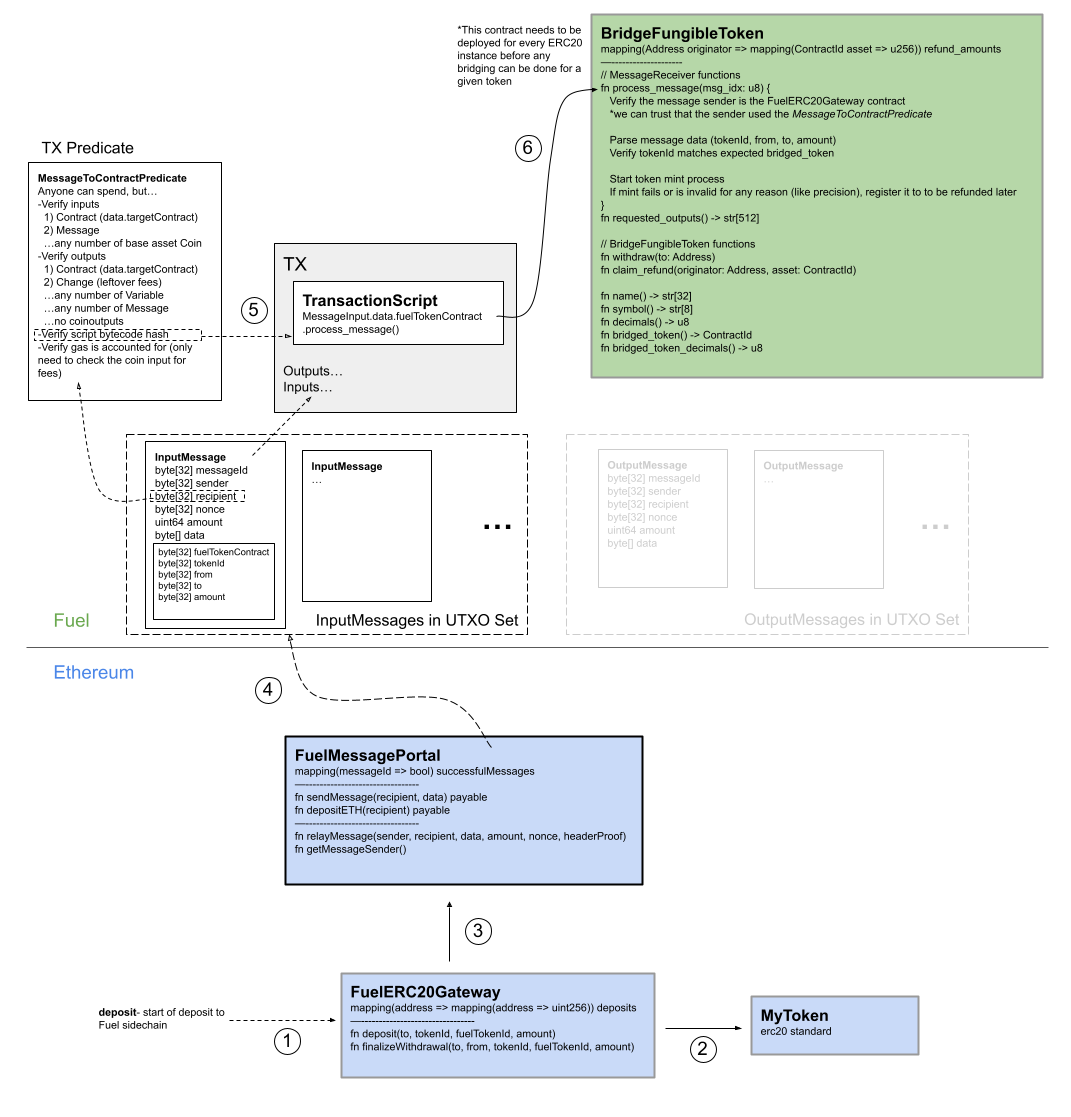
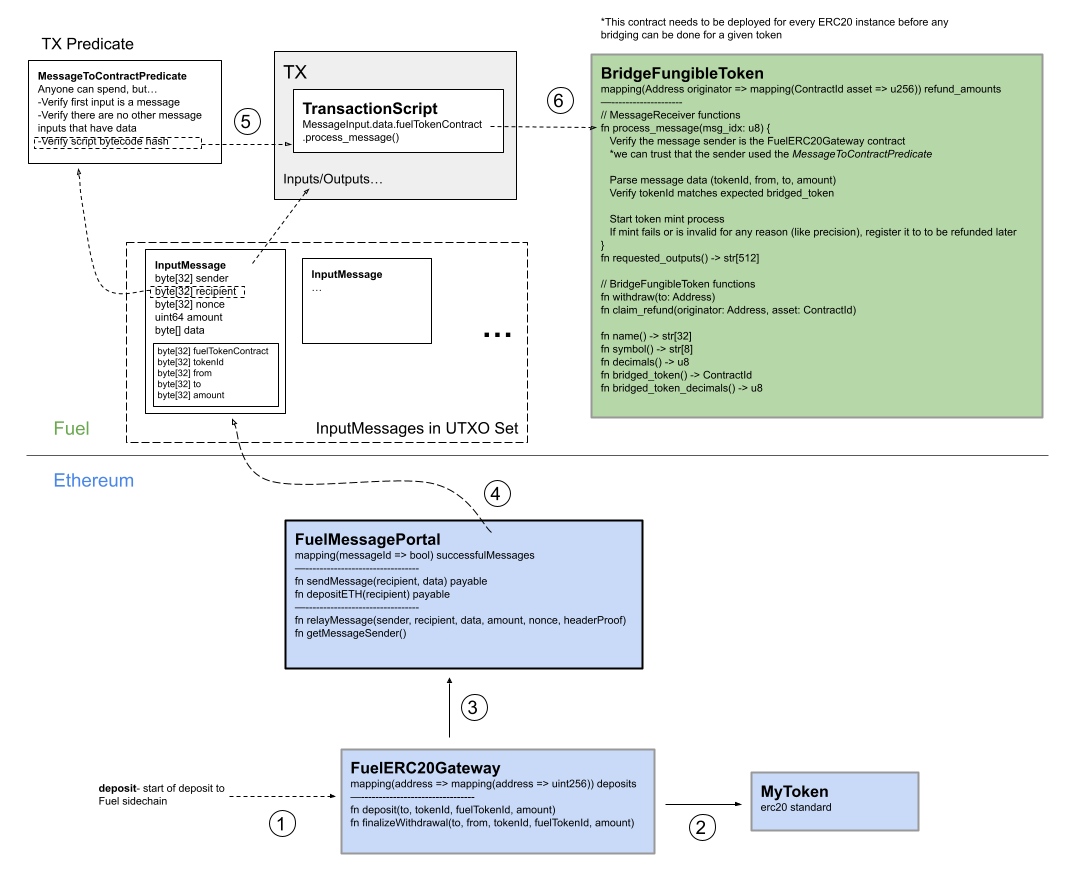
Updated design docs (#63)
* updated design docs

* update ci

diff --git a/docs/design_docs.md b/docs/design_docs.md
@@ -24,9 +24,9 @@ The ETH bridge facilitates the transfer of ETH from Ethereum to be represented a
 
 ### ETH Bridge Withdrawal
 
-1. User starts a withdrawal by creating a transaction that outputs an `OutputMessage` with a specific amount of ETH
-1. The `messageId`s from all `OutputMessages` in a block are put into a merkle tree and included in the block header, which gets committed to the `FuelChainConsensus` contracts via the consensus mechanism
-1. After a finalization period, the user calls `relayMessage` on the `FuelMessagePortal` contract with a block inclusion proof that is cross verified with the `FuelChainConsensus` contract, which then sends the ETH to the message recipient
+1. User starts a withdrawal by creating a transaction that creates a `MessageOut` receipt, via the `SMO` opcode, with a specific amount of ETH
+1. The `messageId`s from all `MessageOut` receipts in a block are put into a merkle tree and included in the block header, which gets committed to the `FuelChainState` contract
+1. After a finalization period, the user calls `relayMessage` on the `FuelMessagePortal` contract with a block inclusion proof that is cross verified with the `FuelChainState` contract, which then sends the ETH to the message recipient
 
 ![ETH Withdrawal Diagram](/docs/imgs/FuelMessagingETHWithdraw.png)
 
@@ -38,9 +38,9 @@ The ERC-20 bridge facilitates the transfer of ERC-20 tokens from Ethereum to be 
 
 1. User starts a deposit by calling the `deposit()` function on the `FuelERC20Gateway` (after they have approved token transfer to `FuelERC20Gateway`)
 1. The `FuelERC20Gateway` transfers tokens to itself to custody while they are bridged
-1. The `FuelERC20Gateway` creates a message in the `FuelMessagePortal` to be relayed on Fuel with the `MessageToFungibleTokenPredicate` as the recipient so that anyone can spend the `InputMessage` on the user's behalf but with guarantees that the spending transaction correctly relays the message data
+1. The `FuelERC20Gateway` creates a message in the `FuelMessagePortal` to be relayed on Fuel with the `MessageToContractPredicate` as the recipient so that anyone can spend the `InputMessage` on the user's behalf but with guarantees that the spending transaction correctly relays the message data
 1. The Fuel client sees an outgoing message event emitted on the `FuelMessagePortal` and adds a corresponding `InputMessage` to the UTXO set with the designated recipient predicate
-1. A transaction is built and submitted by either the user or a third party that meets the requirements of the `MessageToFungibleTokenPredicate` recipient
+1. A transaction is built and submitted by either the user or a third party that meets the requirements of the `MessageToContractPredicate` recipient
 1. A single call is made from the transaction script to the intended target Fuel token contract specified in the messages data field. This function verifies the sender of the `InputMessage`, parses the data from the `InputMessage` data field and mints the appropriate amount of tokens
 
 ![ERC20 Deposit Diagram](/docs/imgs/FuelMessagingERC20Deposit.png)
@@ -48,9 +48,9 @@ The ERC-20 bridge facilitates the transfer of ERC-20 tokens from Ethereum to be 
 ### ERC-20 Bridge Withdrawal
 
 1. User starts a withdrawal by calling `withdraw` on the token specific `BridgeFungibleToken` contract, sending the coins to withdraw along with it
-1. The `BridgeFungibleToken` contract looks to see what coins it was sent, burns them and then creates an `OutputMessage` via the `SMO` opcode
-1. The `messageId`s from all `OutputMessages` in a block are put into a merkle tree and included in the block header, which gets committed to the `FuelChainConsensus` contracts via the consensus mechanism
-1. After a finalization period, the user calls `relayMessage` on the `FuelMessagePortal` contract with a block inclusion proof that is cross verified with the `FuelChainConsensus` contract, which then calls to the `FuelERC20Gateway` with the abi specified in the message data
+1. The `BridgeFungibleToken` contract looks to see what coins it was sent, burns them and then creates a `MessageOut` receipt via the `SMO` opcode
+1. The `messageId`s from all `MessageOut` receipts in a block are put into a merkle tree and included in the block header, which gets committed to the `FuelChainState` contract
+1. After a finalization period, the user calls `relayMessage` on the `FuelMessagePortal` contract with a block inclusion proof that is cross verified with the `FuelChainState` contract, which then calls to the `FuelERC20Gateway` with the abi specified in the message data
 1. The `FuelERC20Gateway` verifies it’s being called by the `FuelMessagePortal` and releases the specified amount of tokens to the specified address
 
 ![ERC20 Withdrawal Diagram](/docs/imgs/FuelMessagingERC20Withdraw.png)
